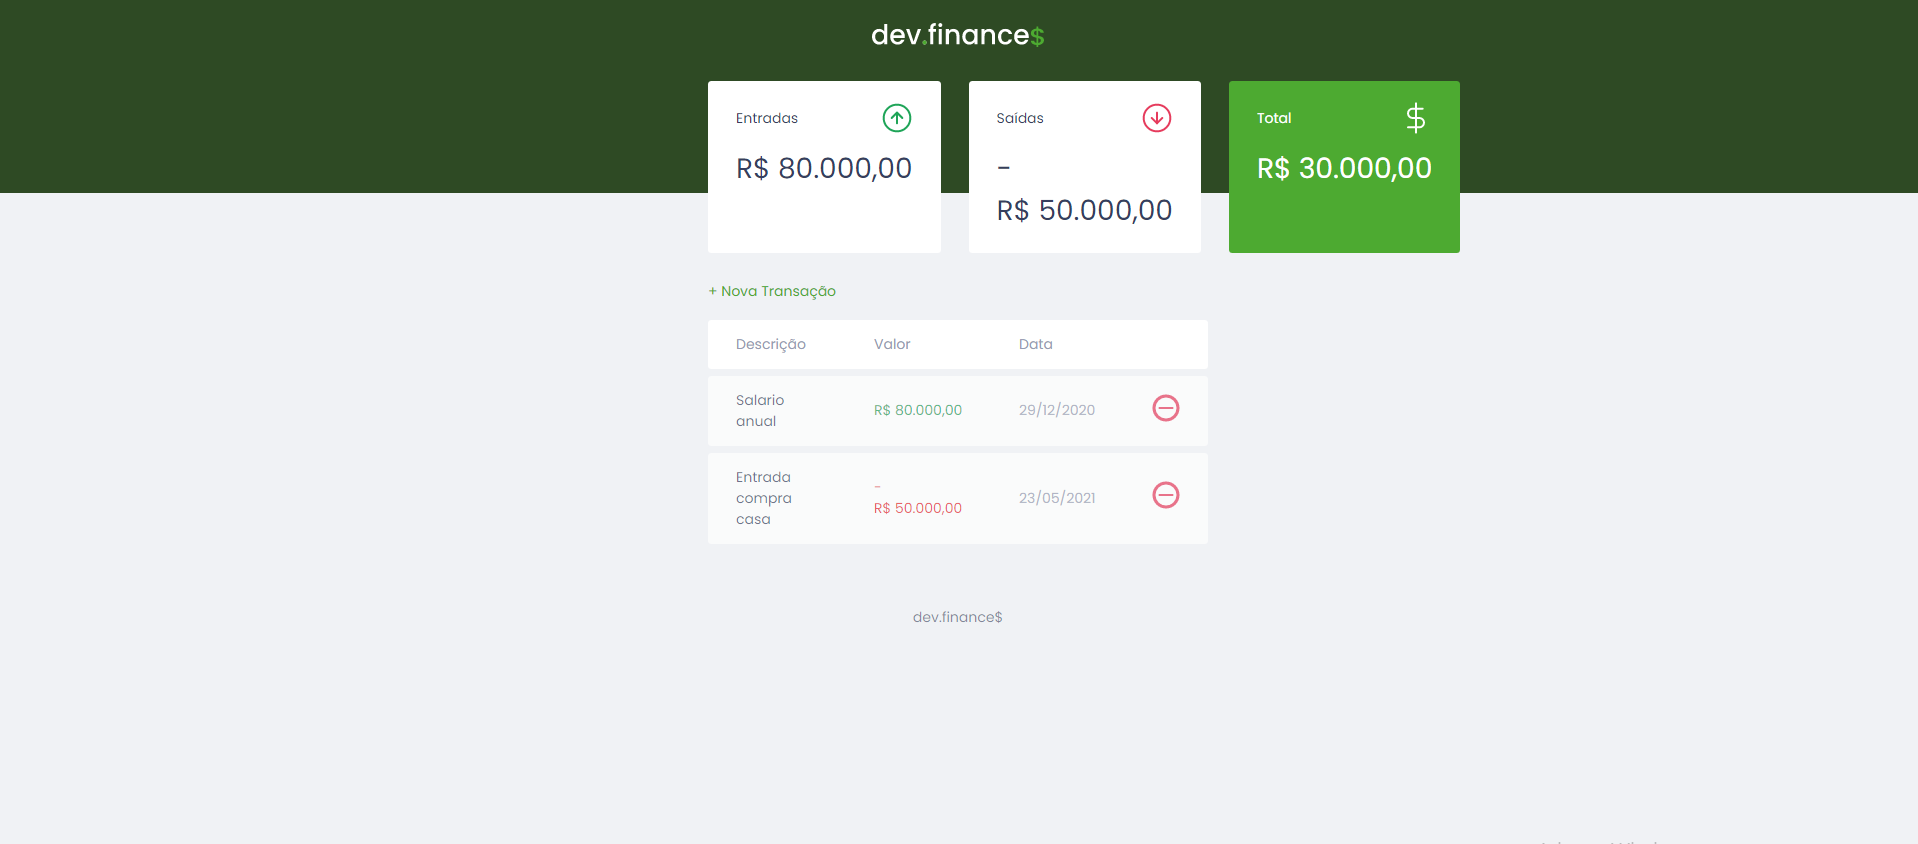
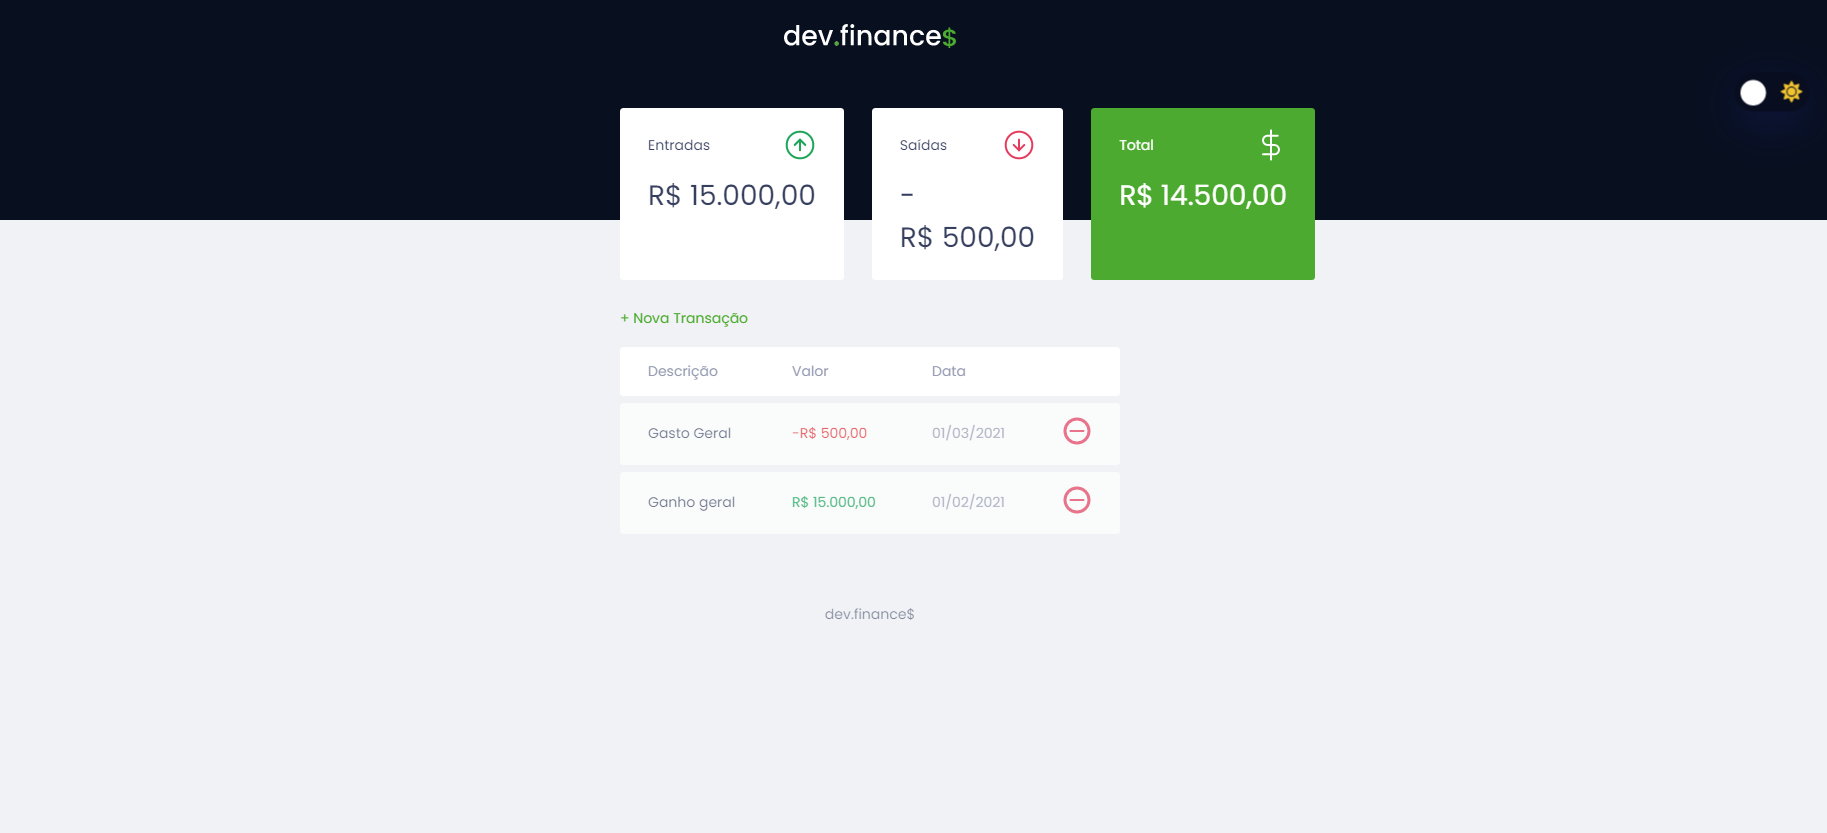
dark-mode inserted

diff --git a/style.css b/style.css
@@ -1,5 +1,5 @@
 :root{
-  --dark-blue:#363F5F;
+  --dark-blue:#363f5f;
   --green: #49aa26;
   --light-green: #3dd705;
   --red: #e92929;
@@ -89,7 +89,7 @@ h2{
 }
 
 header{
-  background: #2D4A22;
+  background: #080f20;
   padding: 2rem 0 10rem;
   text-align: center;
 }
@@ -257,11 +257,82 @@ input{
 
 footer{
   text-align: center;
-  padding: 4rem 0 2rem;
+  padding: 4.5rem 0 2rem;
   color: var(--dark-blue);
 
   opacity: 0.6;
 }
+
+.darkmode{
+  display: flex;
+  align-items: flex-end;
+  justify-content: center;
+}
+
+header.dark {
+  background: #090c08;
+}
+body.dark {
+	background: #080f20;
+}
+
+.checkbox {
+	opacity: 0.5;
+	position: absolute;
+}
+
+.label {
+  background: rgba( 6, 13, 44, 0.05 );
+  box-shadow: 0 8px 32px 0 rgba(37, 45, 151, 0.37);
+  backdrop-filter: blur( 4px );
+  -webkit-backdrop-filter: blur( 4px );
+  border-radius: 10px;
+
+	border-radius: 50px;
+	cursor: pointer;
+	display: flex;
+	align-items: center;
+	justify-content: space-between;
+	padding: 5px;
+	position: relative;
+	height: 26px;
+	width: 50px;
+	transform: scale(1.5);
+}
+
+.label .ball {
+	background-color: #fff;
+	border-radius: 50%;
+	position: absolute;
+	top: 5px;
+	left: 4px;
+	height: 17px;
+	width: 17px;
+	transform: translateX(0px);
+	transition: transform 0.2s linear;
+}
+
+.checkbox:checked + .label .ball {
+	transform: translateX(24px);
+}
+
+
+.fa-moon {
+	color: #dfe6e9;
+}
+
+.fa-sun {
+	color: #f1c40f;
+}
+td.description{
+    color: var(--dark-blue);
+}
+td.income{
+    color: #12a454;
+}
+td.expense{
+    color: #e92929;
+} 
 
 @media(min-width:800px){
 
@@ -270,9 +341,78 @@ footer{
   }
 
   #balance{
-      display: grid;
-      grid-template-columns: repeat(3, 1fr);
-      gap: 2rem;
+    display: grid;
+    grid-template-columns: repeat(3, 1fr);
+    gap: 2rem;
   }
+  .darkmode{
+    position: relative;
+    left: 47%;
+    top: 25px;
+  }  
+  header.dark {
+    background: #080f20;
+  }
+  body.dark {
+    background: #080f20;
+  }
+
+  .checkbox {
+    opacity: 0;
+    position: absolute;
+  }
+
+  .label {
+    background: rgba( 6, 13, 44, 0.05 );
+    box-shadow: 0 8px 32px 0 rgba( 31, 38, 135, 0.37 );
+    backdrop-filter: blur( 4px );
+    -webkit-backdrop-filter: blur( 4px );
+    border-radius: 10px;
+
+    border-radius: 50px;
+    cursor: pointer;
+    display: flex;
+    align-items: center;
+    justify-content: space-between;
+    padding: 5px;
+    position: relative;
+    height: 26px;
+    width: 50px;
+    transform: scale(1.5);
+  }
+
+  .label .ball {
+    background-color: #fff;
+    border-radius: 50%;
+    position: absolute;
+    top: 5px;
+    left: 4px;
+    height: 17px;
+    width: 17px;
+    transform: translateX(0px);
+    transition: transform 0.2s linear;
+  }
+
+  .checkbox:checked + .label .ball {
+    transform: translateX(24px);
+  }
+
+
+  .fa-moon {
+    color: #dfe6e9;
+  }
+
+  .fa-sun {
+    color: #f1c40f;
+  }
+  td.description{
+      color: var(--dark-blue);
+  }
+  td.income{
+      color: #12a454;
+  }
+  td.expense{
+      color: #e92929;
+  } 
 
 }

diff --git a/index.html b/index.html
@@ -9,6 +9,8 @@
     <link
         href="https://fonts.googleapis.com/css2?family=Poppins:ital,wght@0,100;0,400;0,700;1,100;1,400;1,700&display=swap"
         rel="stylesheet">
+    <link rel="preconnect" href="https://fonts.gstatic.com">
+    <link rel="stylesheet" href="https://cdnjs.cloudflare.com/ajax/libs/font-awesome/5.15.1/css/all.min.css">
     <title>dev.finance$</title>
 </head>
 
@@ -16,7 +18,16 @@
 
     <header>
         <img src="./assets/logo.svg" alt="Logo Dev finance">
+        <div class="darkmode">
+            <input type="checkbox" class="checkbox" id="chk" />
+            <label class="label" for="chk">
+                <i class="fas fa-moon"></i>
+                <i class="fas fa-sun"></i>
+                <div class="ball"></div>
+            </label>
+        </div>
     </header>
+    
     <main class="container">
 
         <section id="balance">

diff --git a/modal.js b/modal.js
@@ -1,3 +1,9 @@
+const chk = document.getElementById('chk');
+
+chk.addEventListener('change', () => {
+	document.body.classList.toggle('dark');
+}); 
+
 const Modal = {
   open() {
       document
